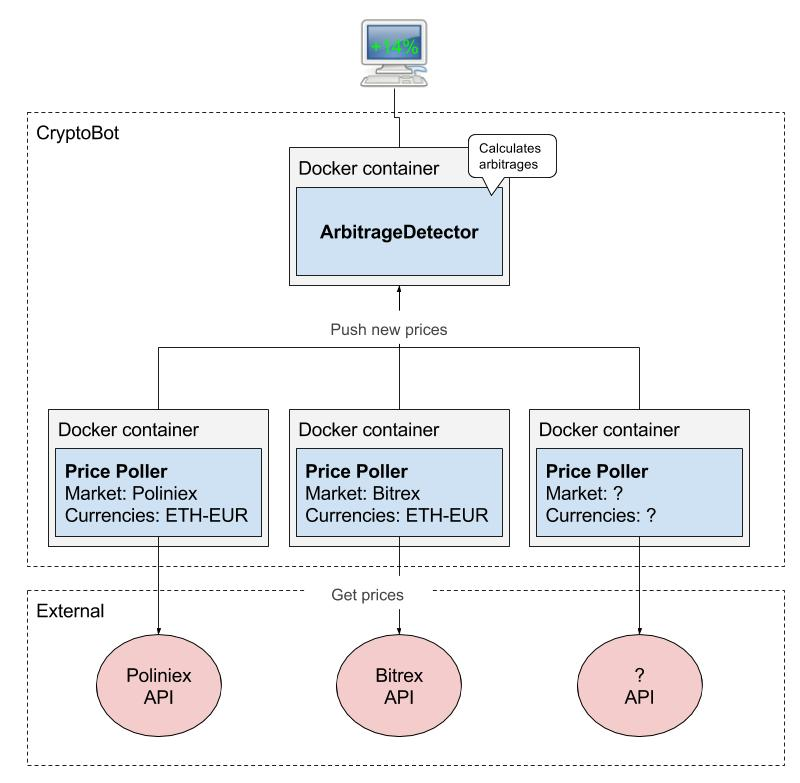
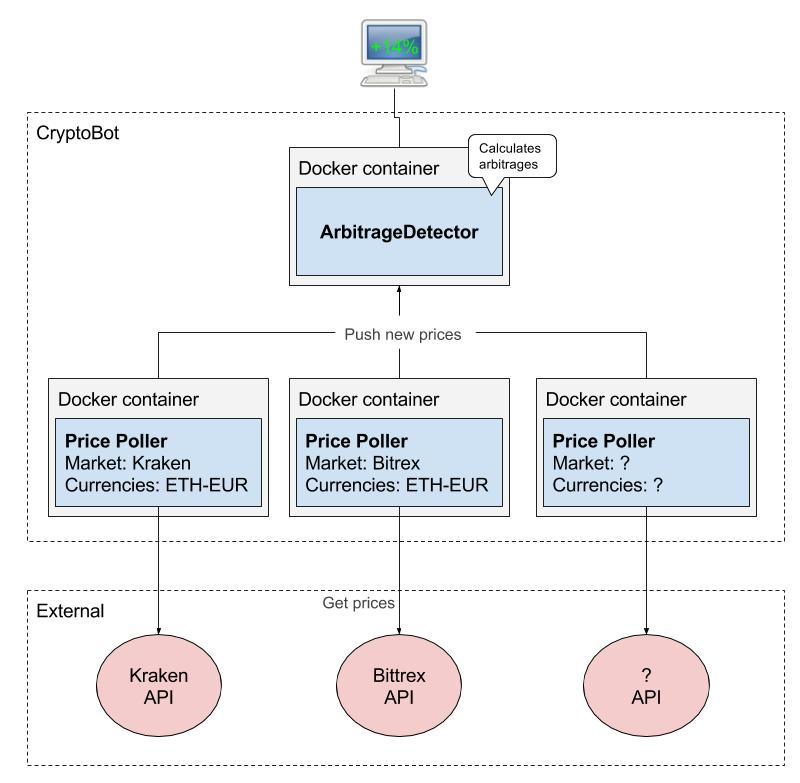
Added support for Kraken.

diff --git a/PricePoller/MarketApis/KrakenMarketApi.cs b/PricePoller/MarketApis/KrakenMarketApi.cs
@@ -1,0 +1,35 @@
+using CryptoBot.Shared;
+using Microsoft.Extensions.Configuration;
+using System;
+using System.Collections.Generic;
+using System.Linq;
+using System.Text;
+using System.Threading.Tasks;
+
+namespace PricePoller.MarketApis
+{
+    public class KrakenMarketApi : IMarketApi
+    {
+        public KrakenMarketApi(IConfiguration configuration, MyLogger logger) : base(Markets.KRAKEN, configuration, logger)
+        {
+        }
+
+        public override async Task<PriceModel> RetrievePriceFromApi()
+        {
+            var from = _configuration["FROM_CURRENCY"];
+            var to = _configuration["TO_CURRENCY"];
+            var url = $"https://api.kraken.com/0/public/Ticker?pair={from}{to}";
+            url = url.Replace("BTC", "XBT"); // convert BTC to XBT
+            var json = await GetResponse(url);
+
+            return new PriceModel
+            {
+                Market = _configuration["MARKET"],
+                From = from,
+                To = to,
+                BuyPrice = json["result"].First.First["a"].Values<decimal>().First(),
+                SellPrice = json["result"].First.First["b"].Values<decimal>().First()
+            };
+        }
+    }
+}

diff --git a/PricePoller/MarketApis/MarketApiService.cs b/PricePoller/MarketApis/MarketApiService.cs
@@ -24,6 +24,7 @@ namespace PricePoller.MarketApis
                 new CoinbaseMarketApi(configuration, logger),
                 new GDAXMarketApi(configuration, logger),
                 new BittrexMarketApi(configuration, logger),
+                new KrakenMarketApi(configuration, logger),
             };
 
             _configuration = configuration;

diff --git a/PricePoller/MarketApis/Markets.cs b/PricePoller/MarketApis/Markets.cs
@@ -9,5 +9,6 @@ namespace PricePoller.MarketApis
         public const string COINBASE = "Coinbase";
         public const string GDAX = "GDAX";
         public const string BITTREX = "Bittrex";
+        public const string KRAKEN = "Kraken";
     }
 }

diff --git a/README.md b/README.md
@@ -1,12 +1,13 @@
 # CryptoBot
 CryptoBot that can detect arbitrages and use them to make profit.
 
-![Architecture CryptoBot](Architecture_CryptoBot.jpg)
+<img src="Architecture_CryptoBot.jpg" alt="Architecture CryptoBot" width="50%">
 
 ### Currently supported markets
 - GDAX
 - Coinbase
 - Bittrex
+- Kraken
 
 ### Run & Deploy
 #### prerequisites
@@ -33,3 +34,4 @@ CryptoBot that can detect arbitrages and use them to make profit.
 ### TODO
 - Implement ArbitrageDetector
 - Add frontend to show calculated arbitrages
+- Implement Fees from markets into arbitrage calculation.
